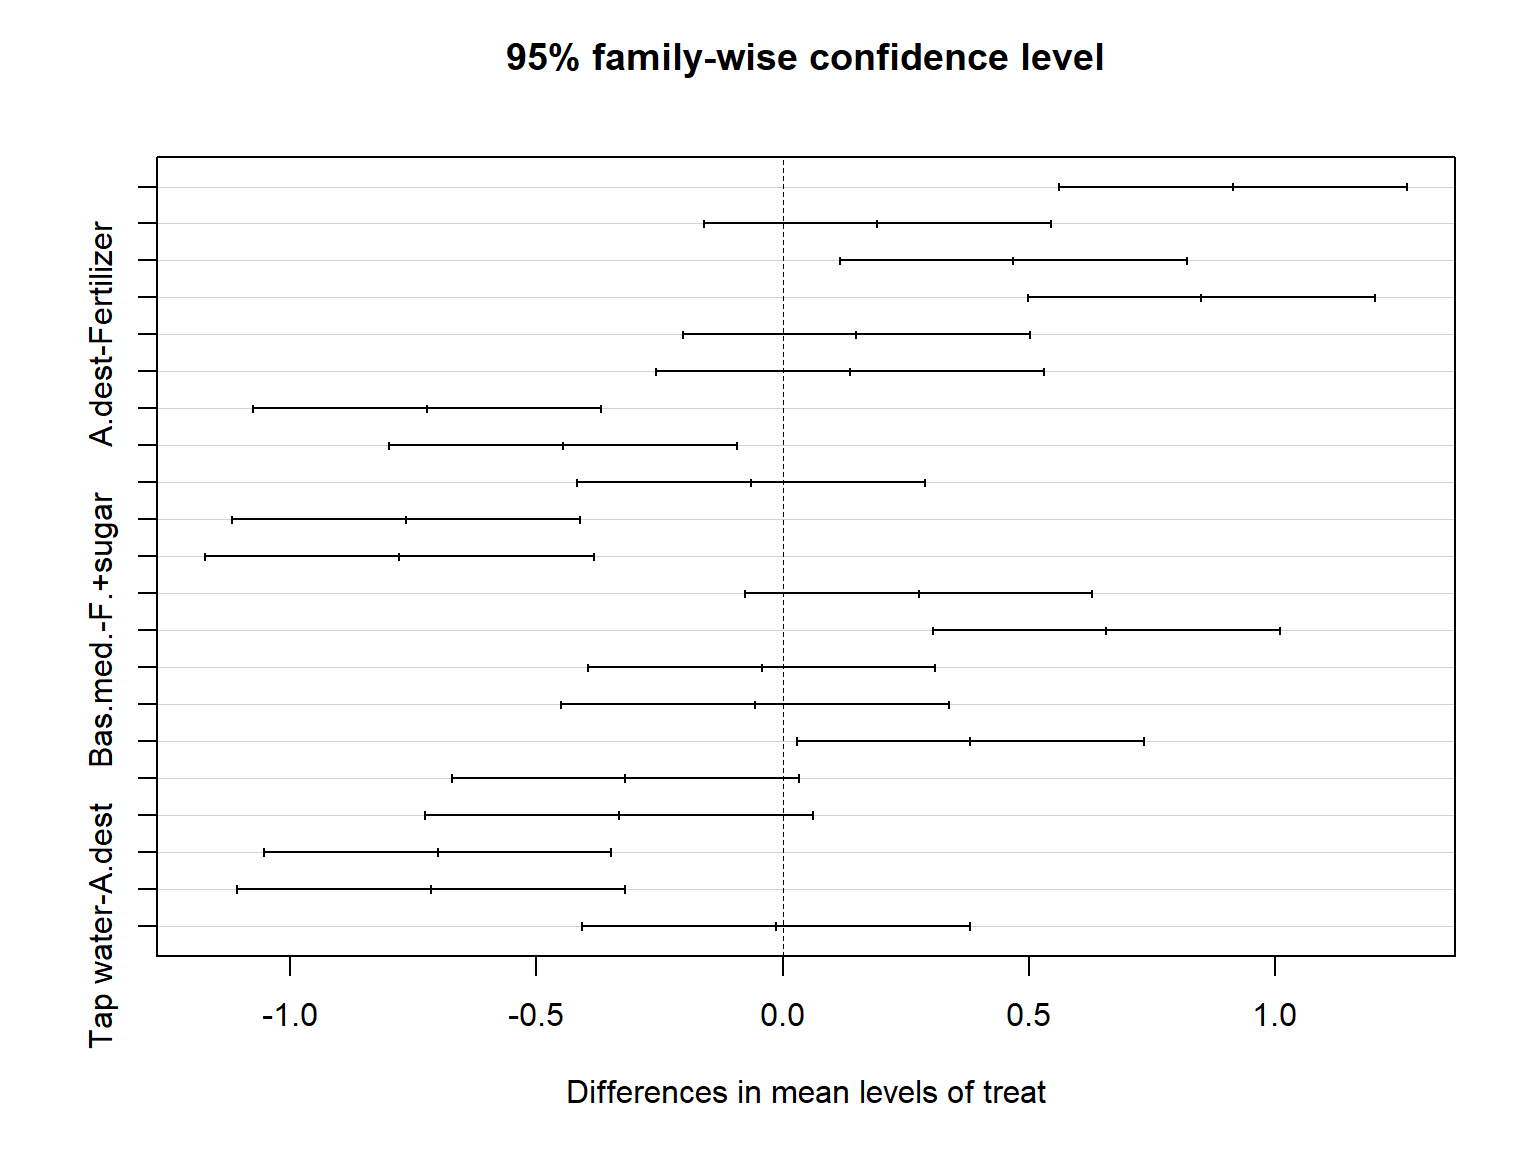
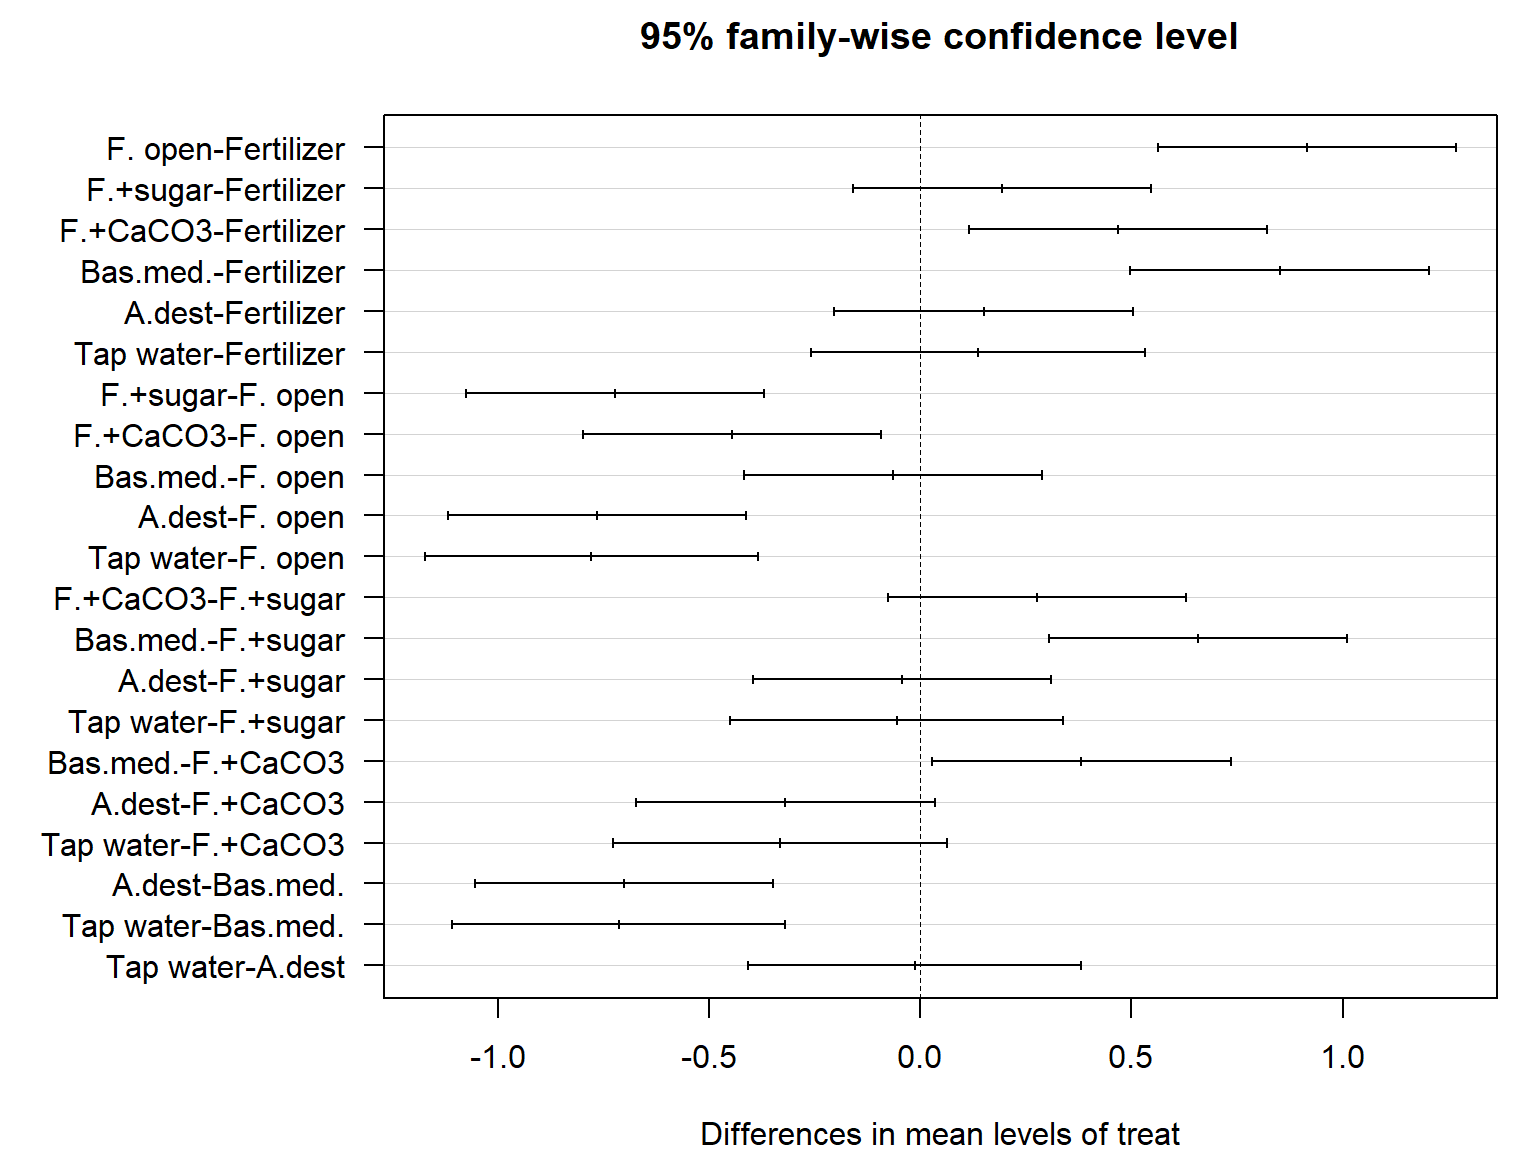
axis orientation, font size

diff --git a/RStatistics/slides-anova.html b/RStatistics/slides-anova.html
@@ -167,8 +167,15 @@ Thomas Petzoldt
   </p>
   <p class="date">2020-12-14</p>
 </div>
-<div class="slide section level2">
-
+<div id="preface" class="slide section level2">
+<h1>Preface</h1>
+<ul>
+<li>Work in progress …</li>
+<li>This HTML document is intended to amend the PDF lecture slides</li>
+<li>questions and comments to: <a href="https://tu-dresden.de/Members/thomas.petzoldt" class="uri">https://tu-dresden.de/Members/thomas.petzoldt</a></li>
+<li>Photos and algae growth data were created as part of a Highschool internship</li>
+<li>Many thanks to C. Belger for his contribution.</li>
+</ul>
 <style>
  h2, h3 {
    color: #009de0;
@@ -199,8 +206,8 @@ li::marker {
 }
 </style>
 </div>
-<div id="anova-analysis-of-variances" class="slide section level2 bigger">
-<h1>ANOVA – Analysis of variances</h1>
+<div id="anova-analysis-of-variances" class="slide section level2">
+<h1>ANOVA – Analysis of Variances</h1>
 <ul>
 <li>Testing of complex hypothesis as a whole, e.g.:
 <ul>
@@ -235,7 +242,7 @@ li::marker {
 <li>Test how to improve (<span class="math inline">\(\mathrm{CO_2}\)</span>) availability for photosynthesis</li>
 </ul>
 </div>
-<div id="application" class="slide section level2 bigger">
+<div id="application" class="slide section level2">
 <h1>Application</h1>
 <h3 id="different-treatments">7 Different treatments</h3>
 <ul>
@@ -747,15 +754,13 @@ s_y^2 = s^2_\mathrm{effect} + s^2_{\varepsilon}
 <span id="cb3-12"><a href="#cb3-12"></a><span class="kw">axis</span>(<span class="dv">1</span>, <span class="dt">at=</span><span class="kw">c</span>(<span class="dv">1</span>,<span class="dv">2</span>), <span class="dt">labels=</span><span class="kw">c</span>(<span class="st">&quot;EB&quot;</span>, <span class="st">&quot;EP&quot;</span>)); <span class="kw">axis</span>(<span class="dv">2</span>); <span class="kw">box</span>()</span>
 <span id="cb3-13"><a href="#cb3-13"></a><span class="kw">abline</span>(m, <span class="dt">col=</span><span class="st">&quot;blue&quot;</span>)</span></code></pre></div>
 <p><img src="slides-anova_files/figure-slidy/unnamed-chunk-7-1.png" width="768" /></p>
-<h4 id="total-variance">Total variance</h4>
+<h3 id="total-variance">Total variance</h3>
 <div class="sourceCode" id="cb4"><pre class="sourceCode r"><code class="sourceCode r"><span id="cb4-1"><a href="#cb4-1"></a>(var_tot &lt;-<span class="st"> </span><span class="kw">var</span>(clem_edeka<span class="op">$</span>weight))</span></code></pre></div>
 <pre><code>## [1] 68.98814</code></pre>
-<h4 id="residual-variance-alias-within-variance">Residual variance (alias “within variance”)</h4>
+<h3 id="residual-variance-alias-within-variance">Residual variance (alias “within variance”)</h3>
 <div class="sourceCode" id="cb6"><pre class="sourceCode r"><code class="sourceCode r"><span id="cb6-1"><a href="#cb6-1"></a>(var_res &lt;-<span class="st"> </span><span class="kw">var</span>(<span class="kw">residuals</span>(m)))</span></code></pre></div>
 <pre><code>## [1] 43.25</code></pre>
-<ul>
-<li>Between variance or explained variance</li>
-</ul>
+<h3 id="between-variance-or-explained-variance">Between variance or explained variance</h3>
 <div class="sourceCode" id="cb8"><pre class="sourceCode r"><code class="sourceCode r"><span id="cb8-1"><a href="#cb8-1"></a><span class="dv">1</span> <span class="op">-</span><span class="st"> </span>var_res <span class="op">/</span><span class="st"> </span>var_tot</span></code></pre></div>
 <pre><code>## [1] 0.3730807</code></pre>
 <p><strong>Exercise:</strong></p>
@@ -818,7 +823,9 @@ s_y^2 = s^2_\mathrm{effect} + s^2_{\varepsilon}
 ## Tap water-Bas.med.   -0.71400000 -1.10863473 -0.31936527 0.0004507
 ## Tap water-A.dest     -0.01333333 -0.40796806  0.38130140 0.9999997</code></pre>
 <h3 id="graphical-output">Graphical output</h3>
-<div class="sourceCode" id="cb15"><pre class="sourceCode r"><code class="sourceCode r"><span id="cb15-1"><a href="#cb15-1"></a><span class="kw">plot</span>(tk)</span></code></pre></div>
+<div class="sourceCode" id="cb15"><pre class="sourceCode r"><code class="sourceCode r"><span id="cb15-1"><a href="#cb15-1"></a><span class="kw">par</span>(<span class="dt">las =</span> <span class="dv">1</span>)             <span class="co"># las = 1 make y annotation horizontal</span></span>
+<span id="cb15-2"><a href="#cb15-2"></a><span class="kw">par</span>(<span class="dt">mar =</span> <span class="kw">c</span>(<span class="dv">4</span>, <span class="dv">10</span>, <span class="dv">3</span>, <span class="dv">1</span>)) <span class="co"># more space at the left for axis annotation</span></span>
+<span id="cb15-3"><a href="#cb15-3"></a><span class="kw">plot</span>(tk)</span></code></pre></div>
 <p><img src="slides-anova_files/figure-slidy/unnamed-chunk-14-1.png" width="768" /></p>
 </div>
 <div id="anova-assumptions-and-diagnostics" class="slide section level2">
@@ -1120,7 +1127,7 @@ dark
 </div>
 <div id="outlook" class="slide section level2">
 <h1>Outlook</h1>
-<h3 id="will-follow-soon">… will follow soon</h3>
+<h3 id="will-follow-next">… will follow next</h3>
 <ul>
 <li>Sequential Bonferroni test</li>
 <li>ANCOVA</li>
